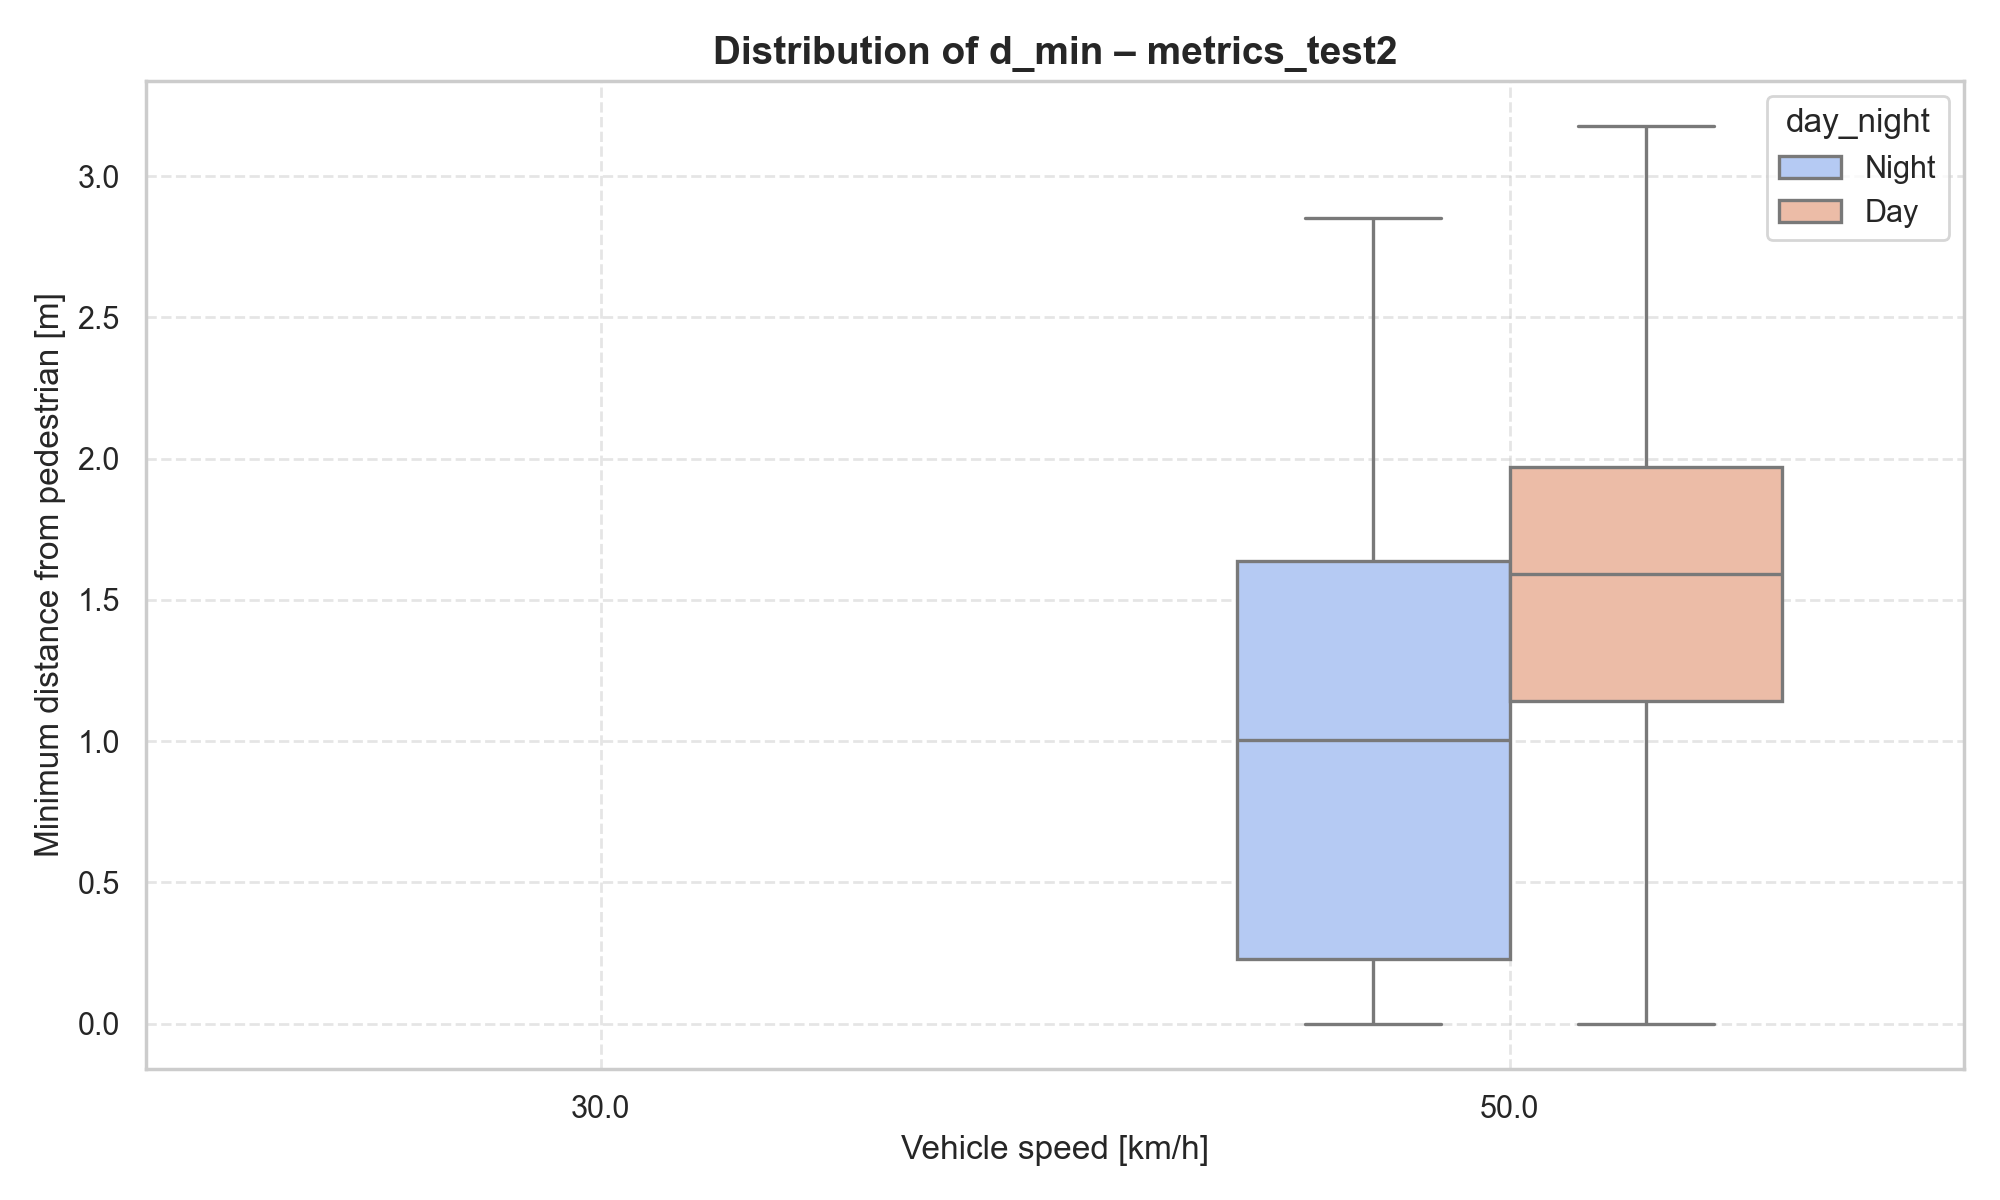
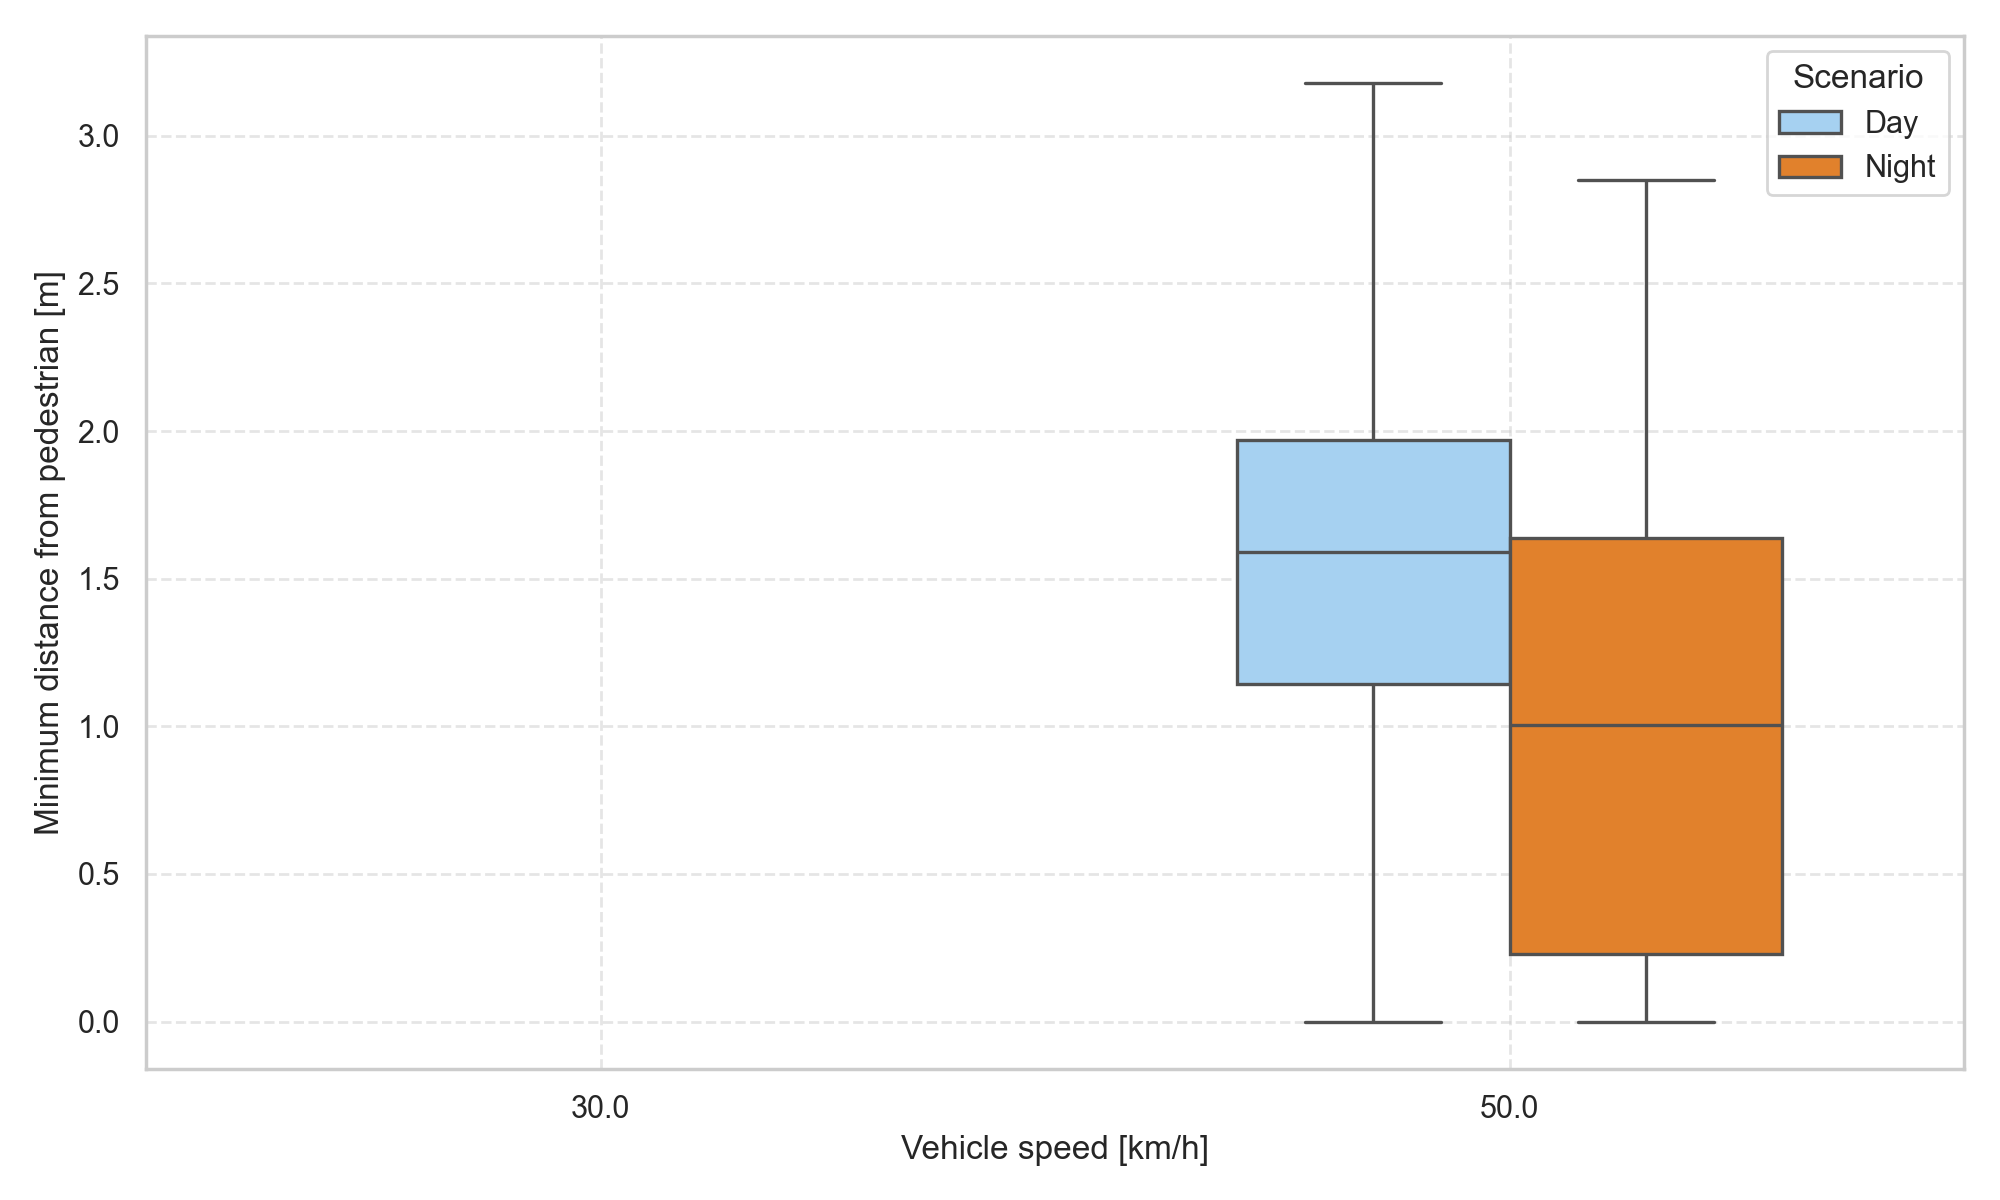
Go on

diff --git a/carla-pedestrian-protection-system/plot_metrics_tests.py b/carla-pedestrian-protection-system/plot_metrics_tests.py
@@ -7,13 +7,13 @@ import matplotlib.pyplot as plt
 
 
 INPUT_DIR = "./logs"
-OUTPUT_DIR = "./results2"
+OUTPUT_DIR = "./results4"
 os.makedirs(OUTPUT_DIR, exist_ok=True)
 
 def load_all_logs(folder):
     records = []
     for filename in os.listdir(folder):
-        if filename.endswith("2.jsonl"):
+        if filename.endswith("4.jsonl"):
             scenario_name = filename.replace(".jsonl", "")
             with open(os.path.join(folder, filename), "r", encoding="utf-8") as f:
                 for line in f:
@@ -26,6 +26,10 @@ def load_all_logs(folder):
     return pd.DataFrame(records)
 
 df = load_all_logs(INPUT_DIR)
+
+df["cross_side"] = df["code"].apply(
+    lambda x: "FarSide" if "FarSide" in str(x) else ("NearSide" if "NearSide" in str(x) else None)
+)
 
 all_rt = {"mild_brake": [], "brake": [], "emergency_brake": []}
 
@@ -96,7 +100,9 @@ def extract_metrics(row):
         "stop_distance_mean": stop_distance,
         "d_min": d_min_value,
         "emergency_brake_count": emergency_brake_count,
-        "total_stops": total_stops
+        "total_stops": total_stops,
+        "cross_side": "FarSide" if "FarSide" in str(row.get("code")) else ("NearSide" if "NearSide" in str(row.get("code")) else None),
+
     })
 
 
@@ -104,6 +110,7 @@ def compute_scenario_score(row):
     import numpy as np
     import pandas as pd
 
+    scen_name = row.get("scenario_name", "").lower()
     v_test = row.get("speed_kmh", 0.0)
     v_impact = row.get("residual_speed_kmh", v_test)
     collided = (row.get("with_pedestrian", 0) > 0) or (row.get("collision_count", 0) > 0)
@@ -112,19 +119,46 @@ def compute_scenario_score(row):
         v_impact = v_test
 
     v_impact = max(0.0, v_impact)
-    delta_v = max(0.0, v_test - v_impact) 
+
+    # ===========================================================
+    # CASE 1 — CPTA SCENARIO (10–20 km/h)
+    # ===========================================================
+    if "cpta" in scen_name:
+        # AVOIDANCE ALWAYS FULL SCORE
+        if not collided:
+            return 100.0
+
+        # --- collisione a 10 km/h ---
+        if v_test <= 10:
+            score = max(0.0, 1.0 - (v_impact / 10.0)) * 60.0
+            return round(score, 2)
+
+        # --- collisione a 20 km/h ---
+        if v_test <= 20:
+            if v_impact <= 5:
+                score = 100.0 - (v_impact * 6.0)   # da 0 a 5 km/h
+            else:
+                score = max(0.0, 70.0 - (v_impact - 5) * 10)
+
+            return round(score, 2)
+        return 0.0
+
+    # ===========================================================
+    # CASE 2 — NORMAL CROSSING SCENARIOS (CPFA / CPNA / CPNCO)
+    # ===========================================================
+    delta_v = max(0.0, v_test - v_impact)
 
     if v_test < 40:
         return 100.0 if not collided else 0.0
-
-
     x = np.array([0, 5, 10, 15, 20])
     y = np.array([0, 0.25, 0.5, 0.75, 1.0])
     score_norm = np.interp(delta_v, x, y)
 
     if not collided:
         return 100.0
+
     return round(score_norm * 100.0, 2)
+
 
 
 metrics_df = df.apply(extract_metrics, axis=1)
@@ -170,34 +204,28 @@ print(f"[OK] Aggregated metrics saved to {output_csv} (with renamed columns)")
 
 sns.set(style="whitegrid")
 
-def safe_plot(plot_func, data, x, y, **kwargs):
-    """Esegue un plot solo se esistono dati validi."""
-    if y not in data.columns:
-        return
-    sub = data.dropna(subset=[y])
-    if sub.empty:
-        return
-    plt.figure(figsize=(10, 6))
-    plot_func(data=sub, x=x, y=y, **kwargs)
-    plt.tight_layout()
+# Palette uniforme
+PALETTE_DAY_NIGHT = {"Day": "#99d3fd", "Night": "#ff7f0e"}
 
 for scen, group in agg_metrics.groupby("scenario_name"):
-    # === Boxplot della d_min ===
     sub = metrics_df[metrics_df["scenario_name"] == scen]
 
+    # === d_min ===
     if not sub.empty and "d_min" in sub.columns:
         plt.figure(figsize=(10, 6))
         sns.boxplot(
             data=sub,
             x="speed_kmh",
             y="d_min",
-            hue="day_night",
-            palette="coolwarm",
-            showfliers = False,
-            linewidth=1.2,    # spessore linee box
+            hue="cross_side",
+            hue_order=["FarSide", "NearSide"],
+            palette={"FarSide": "#49a7eb", "NearSide": "#efad73"},
+            showfliers=False,
+            linewidth=1.2,
             width=0.6
         )
-        plt.title(f"Distribution of d_min – {scen}", fontsize=14, weight="bold")
+        plt.legend(title="Crossing side", fontsize=11, title_fontsize=12)
+
         plt.ylabel("Minimum distance from pedestrian [m]", fontsize=12)
         plt.xlabel("Vehicle speed [km/h]", fontsize=12)
         plt.grid(True, linestyle="--", alpha=0.5)
@@ -205,50 +233,52 @@ for scen, group in agg_metrics.groupby("scenario_name"):
         plt.savefig(os.path.join(OUTPUT_DIR, f"{scen}_dmin_boxplot.png"), dpi=200)
         plt.close()
 
-
-    # === BOX 1: Automaton reaction time (reaction_times_ttc_based) ===
-    sub_ttc = metrics_df[metrics_df["scenario_name"] == scen]
-    if not sub_ttc.empty and "reaction_time_ttc_mean" in sub_ttc.columns:
+    # === Reaction time (TTC) ===
+    if not sub.empty and "reaction_time_ttc_mean" in sub.columns:
         plt.figure(figsize=(10, 6))
         sns.boxplot(
-            data=sub_ttc,
+            data=sub,
             x="speed_kmh",
             y="reaction_time_ttc_mean",
-            hue="day_night",
-            palette="crest",
+            hue="cross_side",
+            hue_order=["FarSide", "NearSide"],
+            palette={"FarSide": "#49a7eb", "NearSide": "#efad73"},
             showfliers=False,
             linewidth=1.2,
             width=0.6
         )
-        plt.title(f"Automaton Reaction Time – {scen}", fontsize=14, weight="bold")
-        plt.ylabel("Automaton reaction time [s]", fontsize=12)
+
+        plt.legend(title="Crossing side", fontsize=11, title_fontsize=12)
+
+        plt.ylabel("Reaction time [s]", fontsize=12)
         plt.xlabel("Vehicle speed [km/h]", fontsize=12)
         plt.grid(True, linestyle="--", alpha=0.5)
         plt.tight_layout()
-        plt.savefig(os.path.join(OUTPUT_DIR, f"{scen}_reaction_time_ttc_based.png"), dpi=200)
+        plt.savefig(os.path.join(OUTPUT_DIR, f"{scen}_reaction_time_ttc.png"), dpi=200)
         plt.close()
 
-
-    # === BOX 2: Simulation reaction time (reaction_times_simulation) ===
-    sub_sim = metrics_df[metrics_df["scenario_name"] == scen]
-    if not sub_sim.empty and "reaction_time_sim_mean" in sub_sim.columns:
+    # === Reaction time (simulation) ===
+    if not sub.empty and "reaction_time_sim_mean" in sub.columns:
         plt.figure(figsize=(10, 6))
         sns.boxplot(
-            data=sub_sim,
+            data=sub,
             x="speed_kmh",
             y="reaction_time_sim_mean",
-            hue="day_night",
-            palette="mako",
+            hue="cross_side",
+            hue_order=["FarSide", "NearSide"],
+            palette={"FarSide": "#49a7eb", "NearSide": "#efad73"},
             showfliers=False,
             linewidth=1.2,
             width=0.6
         )
-        plt.title(f"Simulation Reaction Time – {scen}", fontsize=14, weight="bold")
-        plt.ylabel("Simulation reaction time [s]", fontsize=12)
+
+        plt.ylabel("Reaction time [s]", fontsize=12)
+        plt.legend(title="Crossing side", fontsize=11, title_fontsize=12)
+
         plt.xlabel("Vehicle speed [km/h]", fontsize=12)
         plt.grid(True, linestyle="--", alpha=0.5)
         plt.tight_layout()
-        plt.savefig(os.path.join(OUTPUT_DIR, f"{scen}_reaction_time_simulation.png"), dpi=200)
+        plt.savefig(os.path.join(OUTPUT_DIR, f"{scen}_reaction_time_sim.png"), dpi=200)
         plt.close()
 
 
